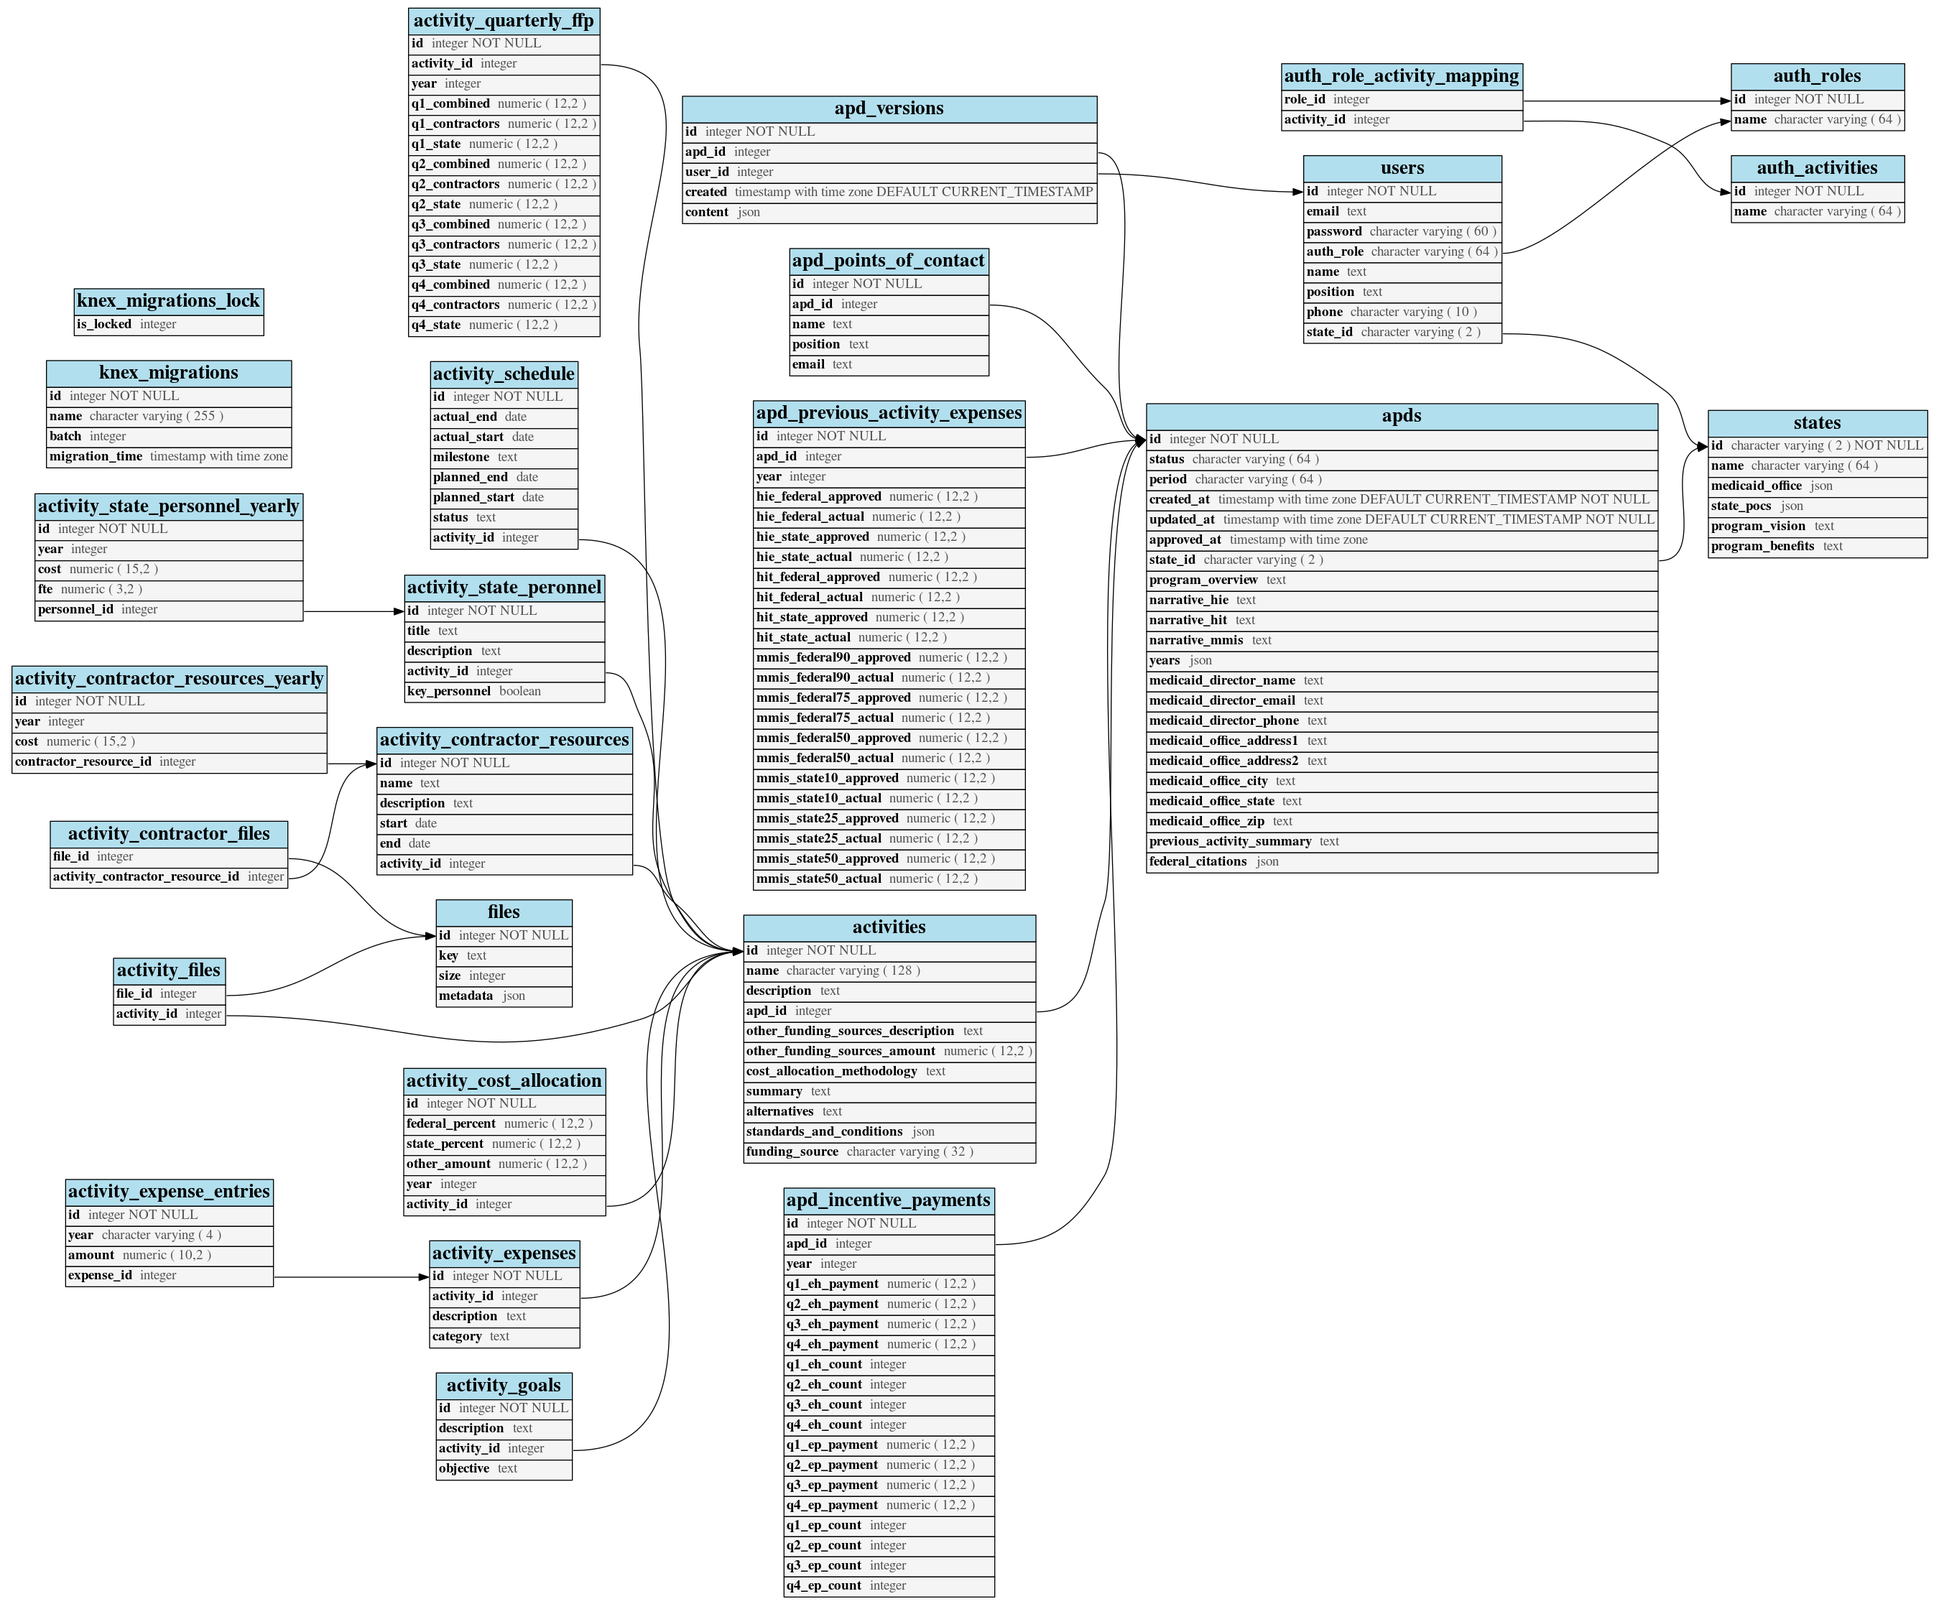
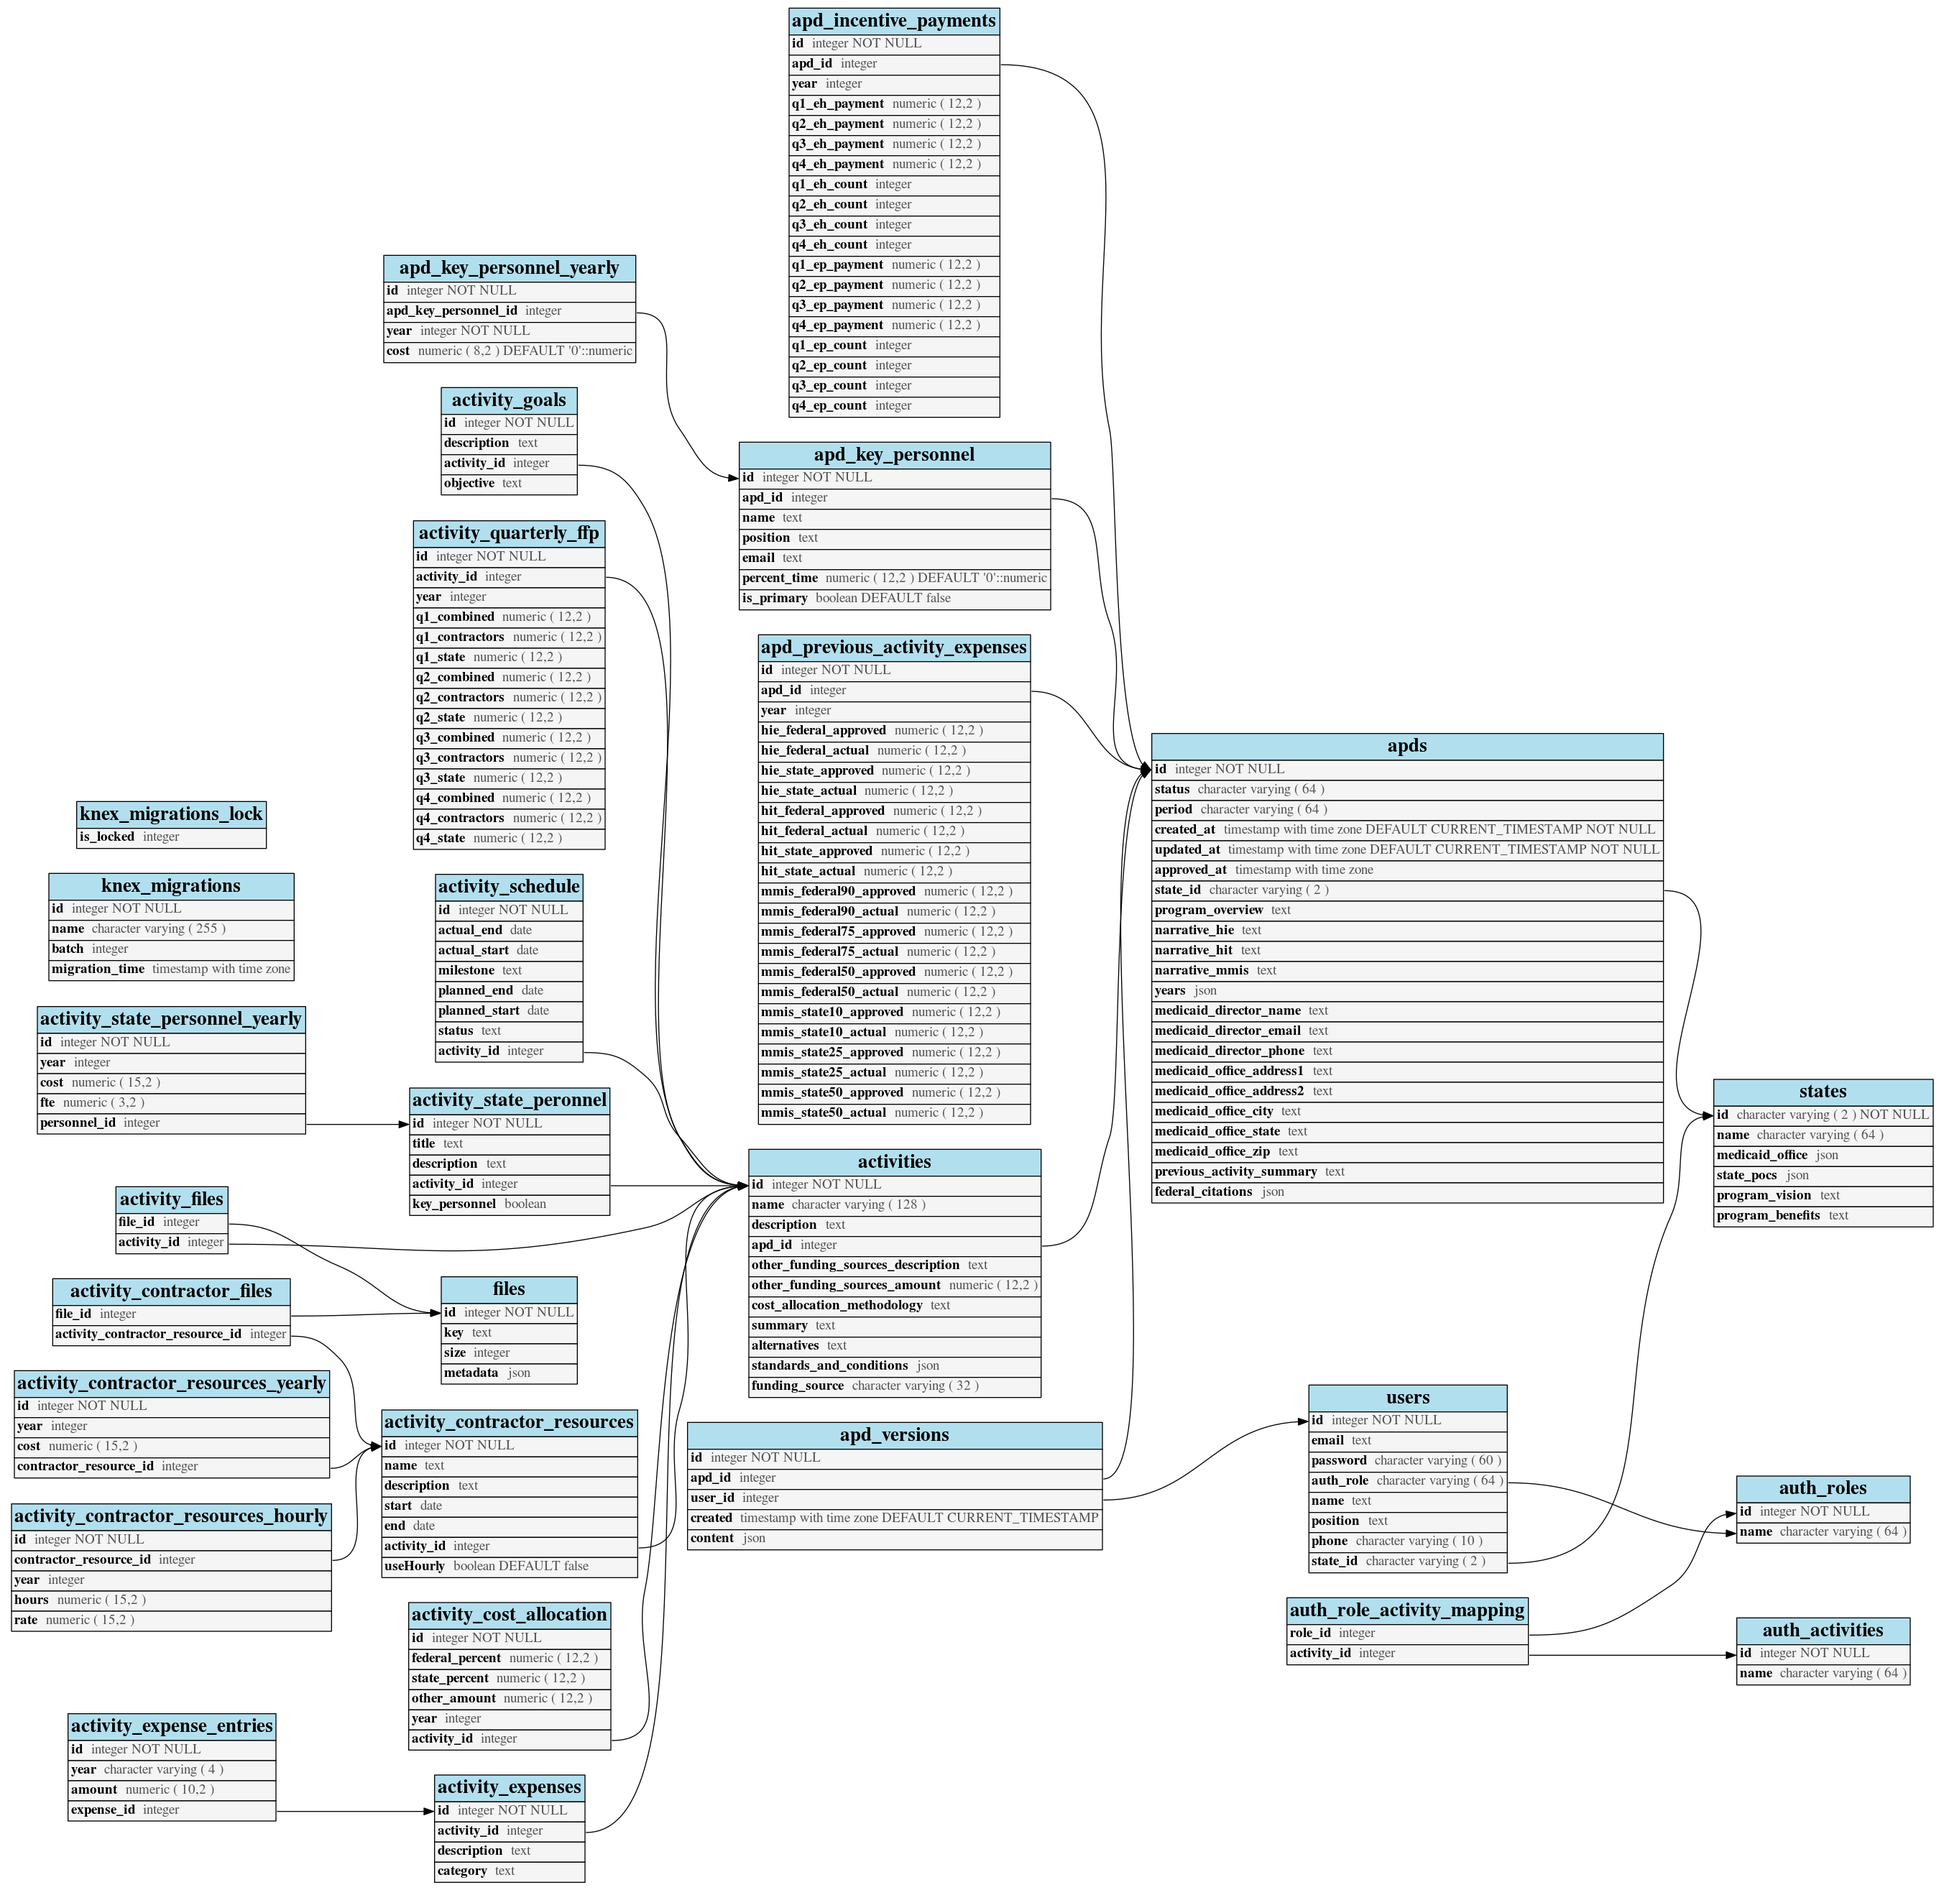
tests and diagrams

diff --git a/api/db/apdKeyPersonnel.test.js b/api/db/apdKeyPersonnel.test.js
@@ -1,7 +1,9 @@
 const tap = require('tap');
 const sinon = require('sinon');
+const db = require('./apdKeyPersonnel')();
 
-const keyPersonnel = require('./apdKeyPersonnel')().apdKeyPersonnel;
+const keyPersonnel = db.apdKeyPersonnel;
+const years = db.apdKeyPersonnelYearly;
 
 tap.test('apd key personnel data model', async tests => {
   tests.test('setup', async test => {
@@ -9,9 +11,19 @@ tap.test('apd key personnel data model', async tests => {
       keyPersonnel,
       {
         apd: Function,
+        years: Function,
+        format: Function,
         toJSON: Function,
         static: {
-          updateableFields: ['name', 'position', 'email']
+          updateableFields: [
+            'email',
+            'isPrimary',
+            'name',
+            'percentTime',
+            'position'
+          ],
+          foreignKey: 'apd_key_personnel_id',
+          owns: { costs: 'apdKeyPersonnelYearly' }
         },
         tableName: 'apd_key_personnel'
       },
@@ -33,12 +45,56 @@ tap.test('apd key personnel data model', async tests => {
     test.equal(output, 'baz', 'returns the expected value');
   });
 
+  tests.test('sets up years relationship', async test => {
+    const self = {
+      hasMany: sinon.stub().returns('floof')
+    };
+
+    const output = keyPersonnel.years.bind(self)();
+
+    test.ok(
+      self.hasMany.calledWith('apdKeyPersonnelYearly'),
+      'sets up the relationship mapping to years'
+    );
+    test.equal(output, 'floof', 'returns the expected value');
+  });
+
+  tests.test('formats attributes', async test => {
+    const attrs = {
+      id: 'id',
+      name: 'name',
+      position: 'position',
+      email: 'email',
+      isPrimary: true,
+      percentTime: 400,
+      apd_id: 99,
+      prop: 'gets thrown out'
+    };
+
+    const output = keyPersonnel.format(attrs);
+
+    test.same(output, {
+      id: 'id',
+      name: 'name',
+      position: 'position',
+      email: 'email',
+      is_primary: true,
+      percent_time: 400,
+      apd_id: 99
+    });
+  });
+
   tests.test('overrides toJSON method', async test => {
-    const self = { get: sinon.stub() };
+    const self = { get: sinon.stub(), related: sinon.stub() };
     self.get.withArgs('id').returns('76');
     self.get.withArgs('name').returns('Trombones');
     self.get.withArgs('position').returns('Leaders');
     self.get.withArgs('email').returns('trombones@bigparade.com');
+    self.get.withArgs('is_primary').returns('false');
+    self.get.withArgs('percent_time').returns(32);
+    self.related
+      .withArgs('years')
+      .returns({ length: 7, toJSON: () => 'years' });
 
     const output = keyPersonnel.toJSON.bind(self)();
 
@@ -46,7 +102,50 @@ tap.test('apd key personnel data model', async tests => {
       id: '76',
       name: 'Trombones',
       position: 'Leaders',
-      email: 'trombones@bigparade.com'
+      email: 'trombones@bigparade.com',
+      hasCosts: true,
+      isPrimary: 'false',
+      percentTime: 32,
+      costs: 'years'
     });
+  });
+});
+
+tap.test('apd key personnel years data model', async tests => {
+  tests.test('setup', async test => {
+    test.match(years, {
+      personnel: Function,
+      toJSON: Function,
+      static: {
+        updateableFields: ['year', 'cost']
+      },
+      tableName: 'apd_key_personnel_yearly'
+    });
+  });
+
+  tests.test('sets up key personnel relationship', async test => {
+    const self = {
+      belongsTo: sinon.stub().returns('baz')
+    };
+
+    const output = years.personnel.bind(self)();
+
+    test.ok(
+      self.belongsTo.calledWith('apdKeyPersonnel'),
+      'sets up the relationship mapping to a key personnel'
+    );
+    test.equal(output, 'baz', 'returns the expected value');
+  });
+
+  tests.test('overrides toJSON method', async test => {
+    const self = {
+      get: sinon.stub()
+    };
+    self.get.withArgs('cost').returns('cost');
+    self.get.withArgs('year').returns('year');
+
+    const output = years.toJSON.bind(self)();
+
+    test.same(output, { cost: 'cost', year: 'year' });
   });
 });

diff --git a/api/db/apd.test.js b/api/db/apd.test.js
@@ -13,7 +13,7 @@ tap.test('apd data model', async apdModelTests => {
 
           activities: Function,
           incentivePayments: Function,
-          pointsOfContact: Function,
+          keyPersonnel: Function,
           previousActivityExpenses: Function,
           state: Function,
           versions: Function,
@@ -34,7 +34,7 @@ tap.test('apd data model', async apdModelTests => {
             owns: {
               activities: 'apdActivity',
               incentivePayments: 'apdIncentivePayment',
-              pointsOfContact: 'apdPointOfContact',
+              keyPersonnel: 'apdKeyPersonnel',
               previousActivityExpenses: 'apdPreviousActivityExpense'
             },
             withRelated: [
@@ -53,7 +53,7 @@ tap.test('apd data model', async apdModelTests => {
               'activities.statePersonnel.years',
               'activities.quarterlyFFP',
               'incentivePayments',
-              'pointsOfContact',
+              'keyPersonnel.years',
               'previousActivityExpenses'
             ]
           }
@@ -229,8 +229,8 @@ tap.test('apd data model', async apdModelTests => {
     self.get.withArgs('federal_citations').returns('assurances and stuff');
     self.get.withArgs('period').returns('apd-period');
     self.related
-      .withArgs('pointsOfContact')
-      .returns({ toJSON: () => 'points-of-contact' });
+      .withArgs('keyPersonnel')
+      .returns({ toJSON: () => 'key-personnel' });
     self.get
       .withArgs('previous_activity_summary')
       .returns('apd-previous-activity-summary');
@@ -268,7 +268,7 @@ tap.test('apd data model', async apdModelTests => {
         narrativeHIT: 'apd-hit',
         narrativeMMIS: 'apd-mmis',
         period: 'apd-period',
-        pointsOfContact: 'points-of-contact',
+        keyPersonnel: 'key-personnel',
         previousActivitySummary: 'apd-previous-activity-summary',
         previousActivityExpenses: 'apd-previous-activity-expenses',
         programOverview: 'apd-overview',

diff --git a/api/seeds/shared/delete-everything.js b/api/seeds/shared/delete-everything.js
@@ -17,7 +17,7 @@ exports.seed = async knex =>
     knex('activity_state_personnel_yearly').del(),
     knex('activity_quarterly_ffp').del(),
     knex('apd_incentive_payments').del(),
-    knex('apd_points_of_contact').del(),
+    knex('apd_key_personnel').del(),
     knex('apd_previous_activity_expenses').del(),
     knex('apd_versions').del(),
     knex('auth_role_activity_mapping').del()
